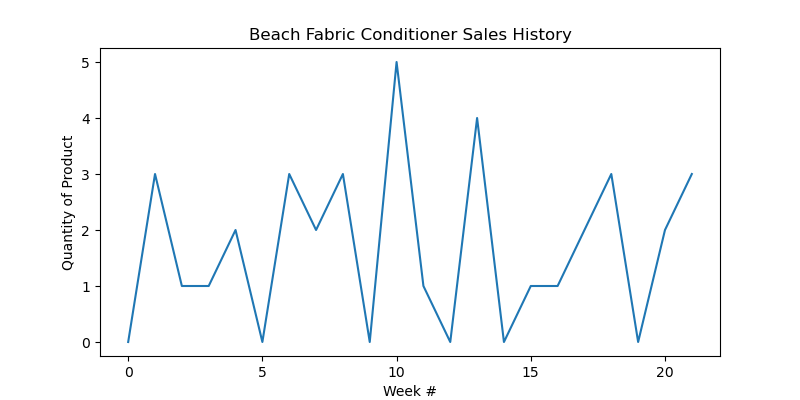
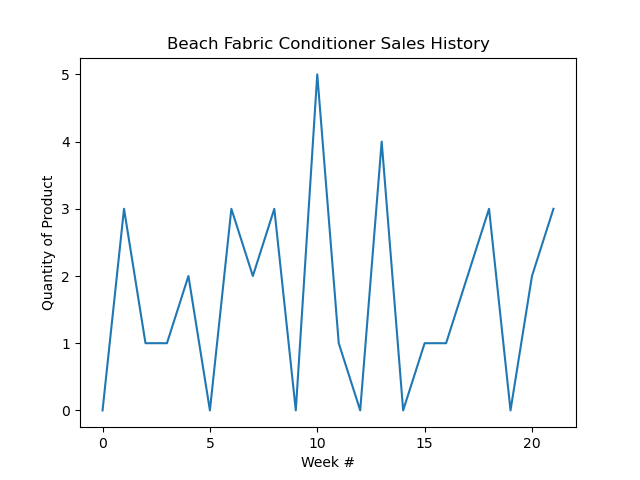
whgat

diff --git a/worksmarter/lp_model.py b/worksmarter/lp_model.py
@@ -42,12 +42,13 @@ def LP_Model():
         else:
             next_day[items] = 0
 
-    fig, ax = plt.subplots(figsize=(8,4), dpi=100)
-    ax.plot(range(len(graph_items)), graph_items )
-    ax.set_xlabel("Week #")
-    ax.set_ylabel("Quantity of Product")
-    ax.set_title(items+ " Sales History")
-    fig.savefig("Product_Graphs/LP_"+ items + ".png")
+        fig, ax = plt.subplots()
+        ax.plot(range(len(graph_items)), graph_items )
+        ax.set_xlabel("Week #")
+        ax.set_ylabel("Quantity of Product")
+        ax.set_title(items+ " Sales History")
+        fig.savefig("Product_Graphs/LP_"+ items + ".png")
+        plt.close(fig)
     with open("Databases/IdealProductList.json", "w") as filez: #write
         json.dump(next_day, filez)
     return next_day
